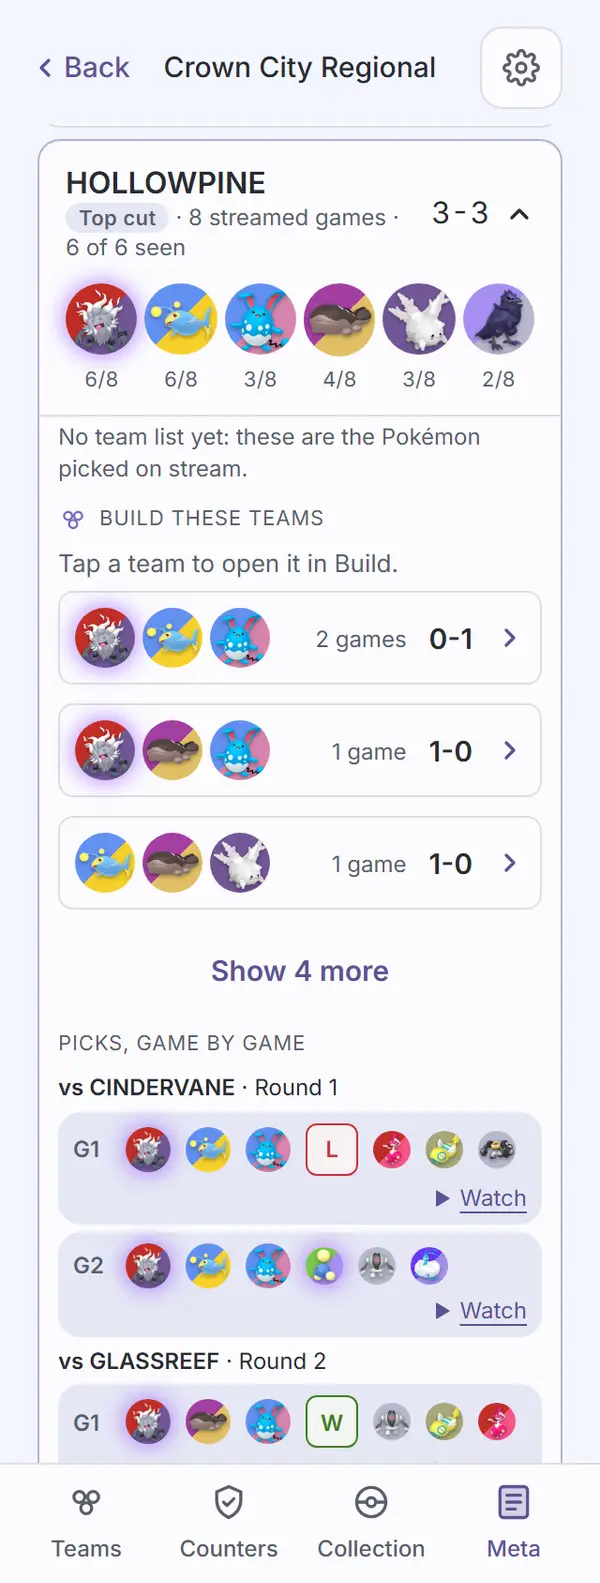
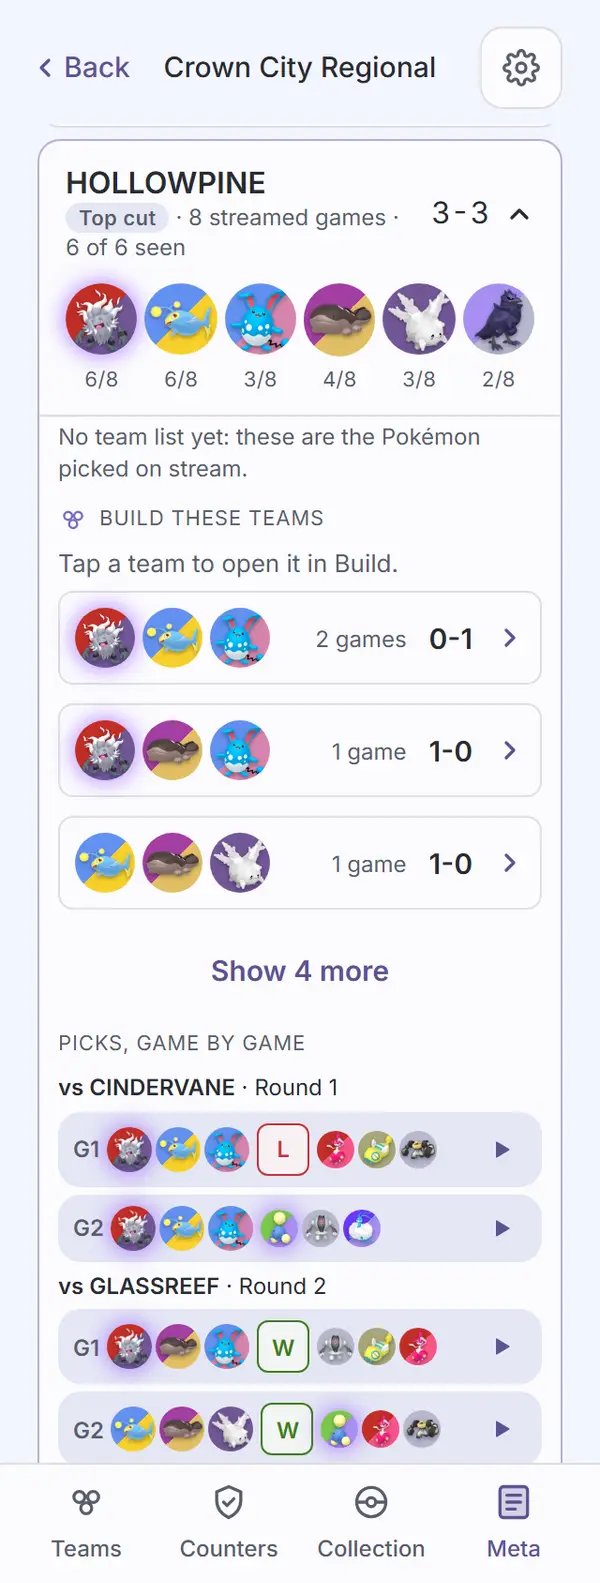
Event page: a game row's Watch is the play glyph alone below 360px
At 320px the word pushed Watch onto its own line on every game row. The word
is now a span hidden below 360px, the link keeps its aria-label and 44px
target, and the row's sprites sit closer, so each game row fits on one line.

Claude-Session: https://claude.ai/code/session_01JV5rEdQrSr8u2B9eggSexk

Changed region(s): [[0.09, 0.681, 0.87, 0.9286]]

diff --git a/apps/web/test/eventPage.test.tsx b/apps/web/test/eventPage.test.tsx
@@ -417,6 +417,12 @@ describe('EventPage', () => {
     const watch = within(cardOf('Ash')).getByRole('link', { name: 'Watch game 1 against Brock' });
     expect(watch.querySelector('svg.play-glyph')).not.toBeNull();
     expect(watch.textContent).toBe('Watch');
+    // The word is its own span, so a narrow phone can show the glyph alone; the label stays.
+    expect(watch.querySelector('.game-watch-word')).toHaveTextContent(/^Watch$/);
+    // The day rows keep their words: no narrow-hidden span there.
+    expect(
+      screen.getAllByRole('link', { name: /Watch day/ })[0]?.querySelector('.game-watch-word'),
+    ).toBeNull();
     expect(watch).toHaveClass('game-watch');
     expect(watch).toHaveAttribute('href', 'https://www.twitch.tv/videos/111?t=1h2m3s');
     expect(watch).toHaveAttribute('target', '_blank');

diff --git a/apps/web/src/app.css b/apps/web/src/app.css
@@ -4220,6 +4220,26 @@ input[type='range'] {
   min-height: 44px;
   margin-block: -14px;
 }
+/* Below about 360px a game row (G label, two threes, a chip, Watch) only fits on one line with
+   Watch as its glyph alone (the link keeps its aria-label and 44px target, reaching into the row's
+   end padding) and the sprites closer together. */
+@media (max-width: 359px) {
+  .game-watch-word {
+    display: none;
+  }
+  .game-match .build-line {
+    column-gap: 4px;
+  }
+  .game-match .build-sprites {
+    gap: 2px;
+  }
+  .game-match .game-label {
+    min-width: 0;
+  }
+  .game-watch {
+    margin-right: -8px;
+  }
+}
 .row-body {
   display: flex;
   flex-direction: column;

diff --git a/apps/web/src/components/meta/PlayerCard.tsx b/apps/web/src/components/meta/PlayerCard.tsx
@@ -243,7 +243,7 @@ function GameByGame({ player, event }: { player: EventPlayer; event: EventDetail
                         aria-label={`Watch game ${g.game.game} against ${opponent}`}
                       >
                         <PlayGlyph />
-                        Watch
+                        <span className="game-watch-word">Watch</span>
                       </a>
                     ) : null}
                   </div>

diff --git a/docs/design/audits/tournament-pages.md b/docs/design/audits/tournament-pages.md
@@ -108,7 +108,7 @@ games and day 3 has none yet.
 | --- | --- | --- |
 | `event-player-open`: chevrons and the tap hint on Build these teams | ![](img/event-player-open-clarity-dark.webp) | ![](img/event-player-open-clarity-light.webp) |
 | `event-player-no-roster`: the note under the six, G1/G2 rows, play glyph Watch | ![](img/event-player-no-roster-clarity-dark.webp) | ![](img/event-player-no-roster-clarity-light.webp) |
-| `event-player-no-roster-narrow` (320px): Watch wraps to its own line under a game row | ![](img/event-player-no-roster-narrow-clarity-dark.webp) | ![](img/event-player-no-roster-narrow-clarity-light.webp) |
+| `event-player-no-roster-narrow` (320px): each game row on one line, Watch as the glyph alone | ![](img/event-player-no-roster-narrow-clarity-dark.webp) | ![](img/event-player-no-roster-narrow-clarity-light.webp) |
 | `tournaments-ongoing`: Ongoing tag, streamed battles | ![](img/tournaments-ongoing-clarity-dark.webp) | ![](img/tournaments-ongoing-clarity-light.webp) |
 | `event-ongoing`: Ongoing in the facts line, "Day 3: no games yet", the Players line | ![](img/event-ongoing-clarity-dark.webp) | ![](img/event-ongoing-clarity-light.webp) |
 
@@ -116,7 +116,9 @@ Automated checks: `npm run web:audit` exit 0 with no finding on any tournament s
 theme; `npm run web:screens` exit 0; lint, typecheck and check-colors clean; web 960 tests and
 engine `events.test.ts` 23 tests pass.
 
-Open for review: at 320px a game row (G label, two threes, chip, Watch) no longer fits on one line, so Watch
-wraps under it (the row's `flex-wrap`). Seen on rows with and without a chip.
+Narrow phones: below 360px a game row's Watch shows the play glyph alone (the word is a
+`.game-watch-word` span hidden there; the link keeps its aria-label and 44px target) and the
+row's sprites sit 2px apart, so every game row fits on one line at 320px. The "Watch day N" rows
+keep their words.
 
 - [ ] Travis, <date>
